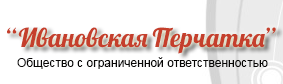
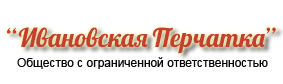
~~~

diff --git a/public/stylesheets/basic/context.css b/public/stylesheets/basic/context.css
@@ -10,7 +10,7 @@ p.sitelogo{
   width:283px;
   height:84px;
   text-decoration:none;
-  background:#FFF url(/images/basic/troya.jpg) no-repeat scroll center 0;
+  background:#FFF url(/images/basic/troya.png) no-repeat scroll center 0;
   margin:0; padding:0;
 }
 a.products:hover{text-decoration:none;}
